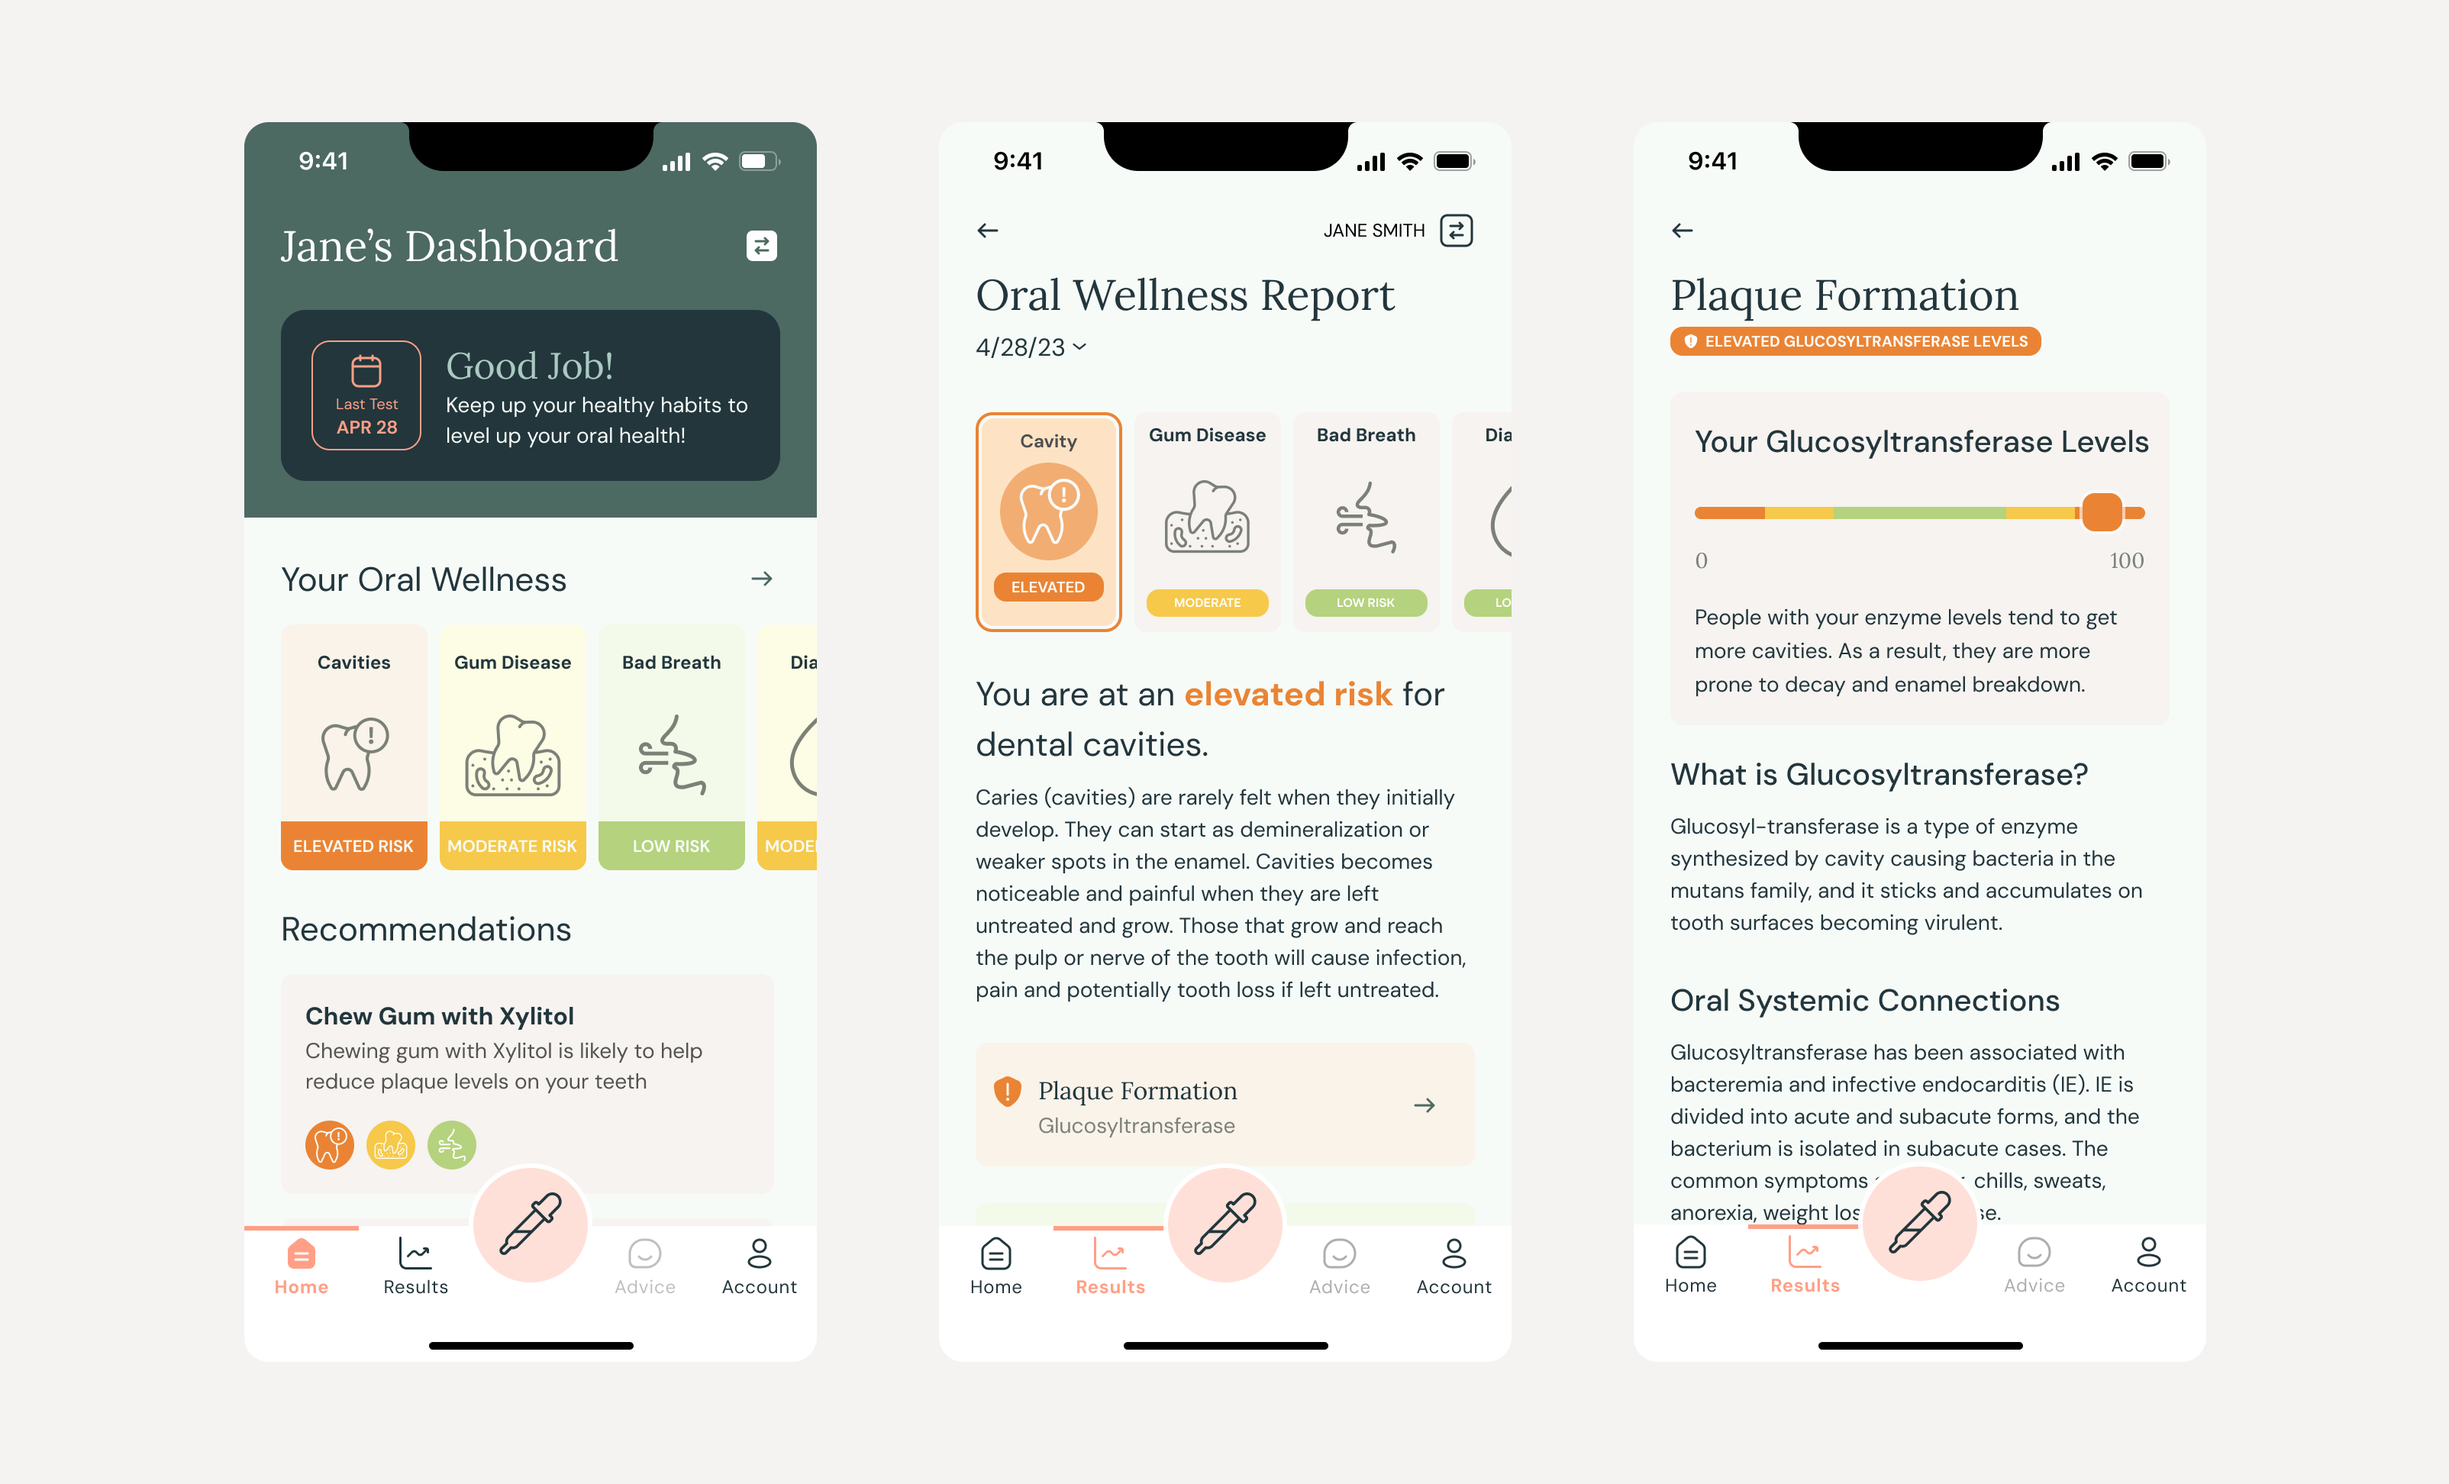
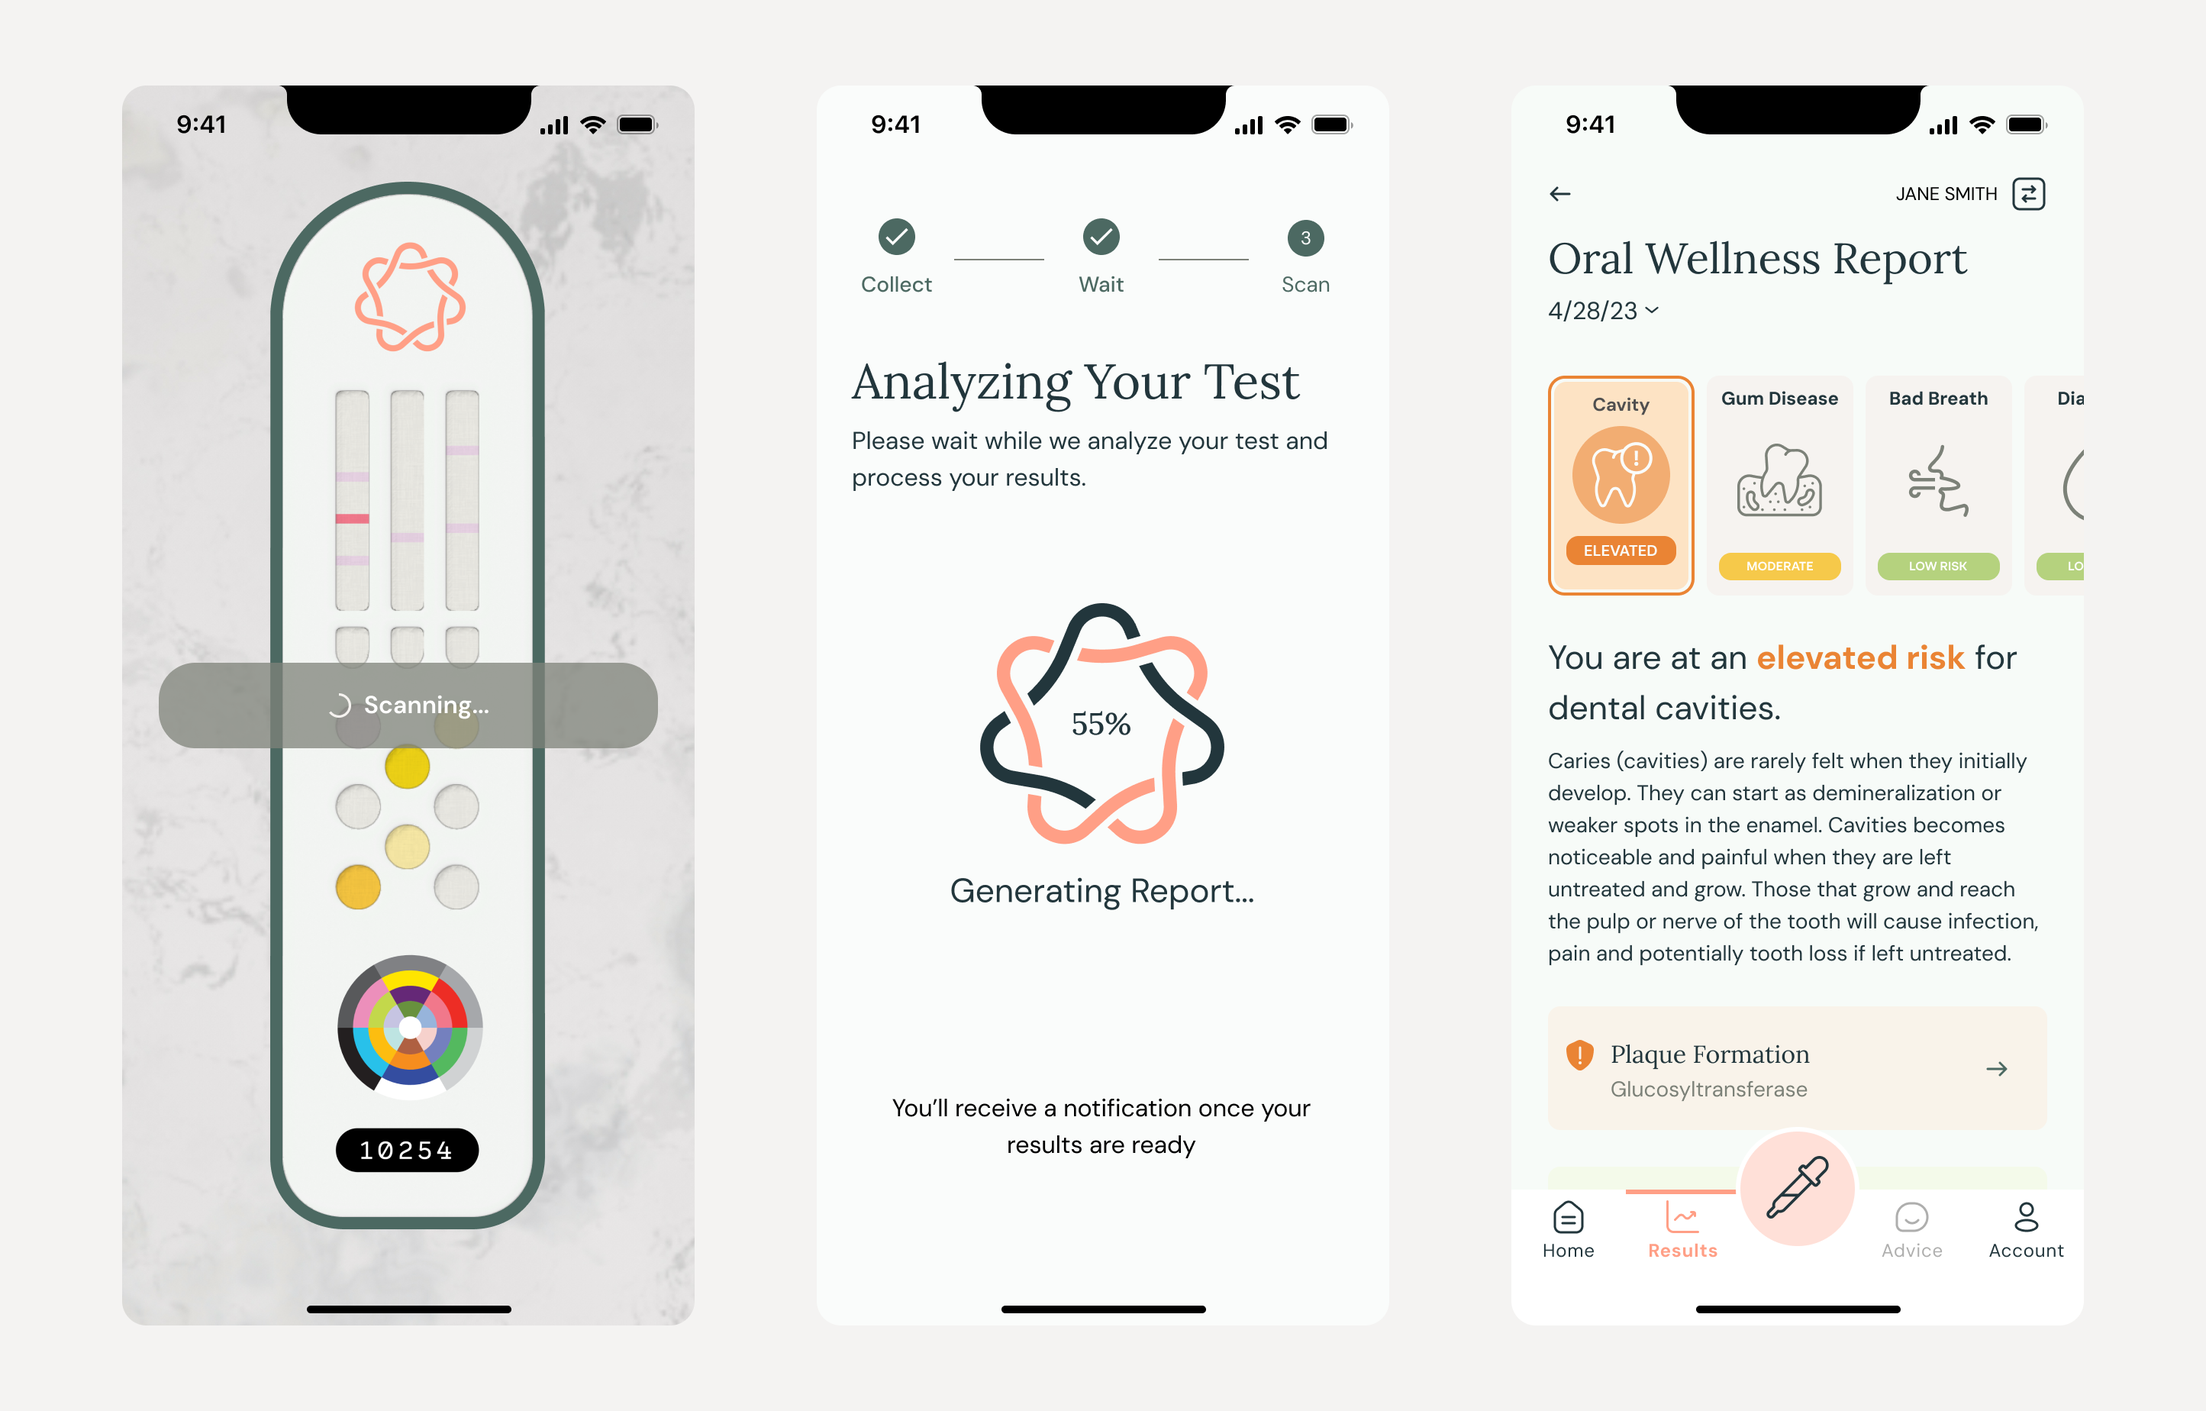
updated dental case study

diff --git a/work/dental-startup/index.html b/work/dental-startup/index.html
@@ -63,18 +63,20 @@
                     <figcaption>Dental Clinic Deserts in the US: Spatial Accessibility Analysis (2024)</figcaption>
                 </a>
             </blockquote>
-            <p>Our client wanted to improve dental care access in dental deserts by developing an oral health test
+            <p>In 2023, a startup wanted to improve dental care access in dental deserts by developing an oral health
+                test
                 kit that people at home could take on their own. They'd provide a saliva sample and then scan a test
                 card using computer vision to get a personalized assessement of their oral health and tailored advice in
                 less than an hour, significantly reducing barriers to dental care.
             </p>
             <p>
-                Over 6 months, I led design for a mobile app to guide test takers at home to complete their test and
+                Over 6 months, I led design for a a mobile app to guide test takers at home to complete their test and
                 view their results, an employee web app to manually review and correct computer vision readings of test
                 cards scans to train the model, and a concept tablet app for providers to uncover dental trends across
                 their office and manage test kit inventory.
             </p>
-            <p>My team included a junior product designer. I worked cross-functionally, facilitating design reviews
+            <p>My team included a junior product designer and a product architect. I worked cross-functionally,
+                facilitating design reviews
                 with the
                 founders, refining copy with the medical copywriter, and partnered with the
                 development team to validate feasibility, handoff
@@ -83,13 +85,14 @@
             <ul>
                 <li>Create a working prototype of the end-to-end test card experience mobile app experience to conduct a
                     pilot testing the
-                    efficacy of computer vision.</li>
-                <li>Design a process and web app to allow employees to review computer vision scans and improve computer
+                    efficacy of computer vision and secure investment</li>
+                <li>Design a process and web app to allow employees to review computer vision scans and train computer
                     vision</li>
-                <li>Explore the value add of the test kit to providers as a sales channel</li>
+                <li>Explore the value the test kit could provide to dental providers</li>
             </ul>
-            <p>The design effort ended before the pilot was conducted but the client raised hundreds of thousands in
-                funding from investors ahead of the pilot demoing mockups I created to investors.</p>
+            <p>I collaborated with the engineering team to build a prototype of the mobile design which the client used
+                to demo and secure investment from the
+                American Dental Association.</p>
         </div>
 
         </div>
@@ -121,7 +124,7 @@
         </div>
         <div id="advice">
             <h2 class="">Actionable Advice</h2>
-            <img class="rounded-lg" src="../../assets/img/dental-patient-dashboard@2x.png"></img>
+            <img class="rounded-lg" src="../../assets/img/dental-report.png"></img>
             <p>Once computer vision analyzed their test card, users would see an oral wellness report of their readings,
                 risk levels and tailored advice. The goal here was to help test takers understand why they received the
                 risk levels they did, and how they could change their habits to improve their score.</p>
@@ -132,9 +135,9 @@
         </div>
 
         <div id="providers">
-            <h2>Dental Provider Dashboard Concept</h2>
+            <h2>Dental Provider Tablet Concept</h2>
             <img class="rounded-lg mb-0" src="../../assets/img/dental-tablet@2x.png"></img>
-            <figcaption>Caption goes here
+            <figcaption>At-a-glance risk trend analysis and inventory management for providers
             </figcaption>
             <p>The client wanted to explore dental providers as a potential market. I saw an opportunity for dentists
                 to use aggregated patient risk data across their clinic and identify trends to improve their approach to
@@ -150,22 +153,13 @@
             <figure>
                 <img class="rounded-lg" src="../../assets/img/dental-admin-review-results.png"></img>
                 <figcaption>Employees would manually review completed tests and correct any Computer Vision
-                    mistakes.
+                    mistakes to help train the model
                 </figcaption>
             </figure>
-            <p>Computer vision needed to be trained to read test cards accurately so I designed a feedback loop and
-                web app for employees to review a queue of completed tests and make corrections to computer vision’s
+            <p>Computer vision needed to be trained to read test cards accurately so I designed a feedback loop for
+                employees to review a queue of completed tests and make corrections to computer vision’s
                 readings. This feedback would be used to train computer vision and also allow reviewers to identify
                 issues with scan quality during the pilot.</p>
-            <p>Test card design wasn’t far along enough to know what the exact test card readings would look like at
-                this point so rather than leave the markers blank I researched existing tests in the market to
-                anticipate how each marker would be read.</p>
-
-        </div>
-        <div id="next">
-            <h2>Outcomes</h2>
-            <p>The design team wrapped up work before the pilot began but the designs created were instrumental in
-                helping the client win grants from major dental associations.</p>
         </div>
     </main>
 

diff --git a/work/edu-fraud/index.html b/work/edu-fraud/index.html
@@ -61,7 +61,7 @@
                 show up
                 to near-empty classrooms because of these "ghost students". Fraud analysts would use the tool to review
                 student application
-                metadata and flag suspicious apps. Student
+                metadata and mark applications fraud or valid. Student
                 applications however, had swelled by over 64% year-over-year and
                 fraud analysts were struggling to keep up.
             </p>
@@ -82,14 +82,14 @@
             </p>
         </div>
         <div id="appdetails">
-            <h2>Reorganized Application Metadata</h2>
+            <h2>Redesigning Application Metadata</h2>
             <p>We learned from contextual inquiries and user interviews that analysts mostly relied on a handful of
                 fields such as IP Address, age, and home addresses
                 before making the decision whether to flag an application as fraudulent or not. They were scattered
                 across the page and some past the fold.</p>
             <figure>
                 <img class="rounded-lg" src="../../assets/img/edu-before-appdetails.png"></img>
-                <figcaption>Before redesign - Metadata was very difficult to scan and commonly compared fields weren't
+                <figcaption>Before - Metadata was very difficult to scan and commonly compared fields weren't
                     placed
                     near each other
                 </figcaption>
@@ -101,12 +101,12 @@
                 prioritizing key fields to the top, and placing commonly compared attributes near each other.</p>
             <figure>
                 <img class="rounded-lg" src="../../assets/img/edu-hero.png"></img>
-                <figcaption>After redesign - Utilizing screen space more efficiently while preserving data density
+                <figcaption>After - Utilizing screen space more efficiently while preserving data density
                 </figcaption>
             </figure>
             <figure>
                 <img class="rounded-lg" src="../../assets/img/edu-appdetails-scrolled.png"></img>
-                <figcaption>After redesign - Logical categories improve scannability and better align with analyst
+                <figcaption>After - Logical categories improve scannability and better align with analyst
                     mental models
                 </figcaption>
             </figure>
@@ -119,7 +119,8 @@
 
             <h2 class="">Explaining the Fraud Score</h2>
             <img class="rounded-lg my-2 sm:my-4" src="../../assets/img/edu-fraudscore.png">
-            <p>Each application had a fraud score assigned by the fraud detection algorithm but none of the analysts
+            <p>Each application had a fraud score assigned by the fraud detection algorithm but in interviews we learned
+                none of the analysts
                 used this score. They weren't sure how to interpret it since scores were sometimes above 100% and they
                 didn't know how it was calculated.</p>
             <p>We needed to build trust in it and "show our work" so analysts can compare notes with the
@@ -131,13 +132,14 @@
             <h2>Dashboard</h2>
             <figure>
                 <img class="rounded-lg" src="../../assets/img/edu-before-dashboard.png"></img>
-                <figcaption>Before - Users could only sort data and relied on spreadsheets to look for suspicious trends
+                <figcaption>Before - Users could only sort one column at a time and relied on spreadsheets to look for
+                    suspicious trends before coming to
                 </figcaption>
             </figure>
             <figure>
                 <img class="rounded-lg my-2 sm:my-4" src="../../assets/img/edu-dashboard.png">
                 <figcaption>After - Analysts can filter and sort on every single column and more data can be viewed in a
-                    horizontal scroll
+                    horizontal scroll. Columns can be reordered to easily compare data side-by-side
                 </figcaption>
             </figure>
             <p>Fraud analysts would use Excel to filter and search for patterns between

diff --git a/index.html b/index.html
@@ -101,19 +101,19 @@
                     </div>
                 </a>
             </div>
-    </div>
-    </main>
 
-    <footer class="w-full">
-        <div id="background"
-            class="bg-stone-50 w-full bg-[linear-gradient(to_right,#8080800a_1px,transparent_1px),linear-gradient(to_bottom,#8080800a_1px,transparent_1px)] bg-[size:14px_24px]">
-            <div id="content" class="flex justify-between text-sm text-stone-700 py-6 px-6 sm:px-12 sm:py-12">
+        </main>
+        <footer class="mx-auto max-w-(--breakpoint-md)">
+            <div id="content" class="flex justify-between text-sm text-stone-700 py-6 px-6 sm:px-12 sm:pb-12">
                 <div id="left">
-                    Made by James with Tailwind CSS © 2025
+                    Made by James with Tailwind CSS
                 </div>
             </div>
-        </div>
+    </div>
     </footer>
+    </div>
+
+
 </body>
 
 

diff --git a/css/tailwind.css b/css/tailwind.css
@@ -1345,6 +1345,11 @@
       padding-block: calc(var(--spacing) * 16);
     }
   }
+  .sm\:pb-12 {
+    @media (width >= 40rem) {
+      padding-bottom: calc(var(--spacing) * 12);
+    }
+  }
   .sm\:text-3xl {
     @media (width >= 40rem) {
       font-size: var(--text-3xl);
